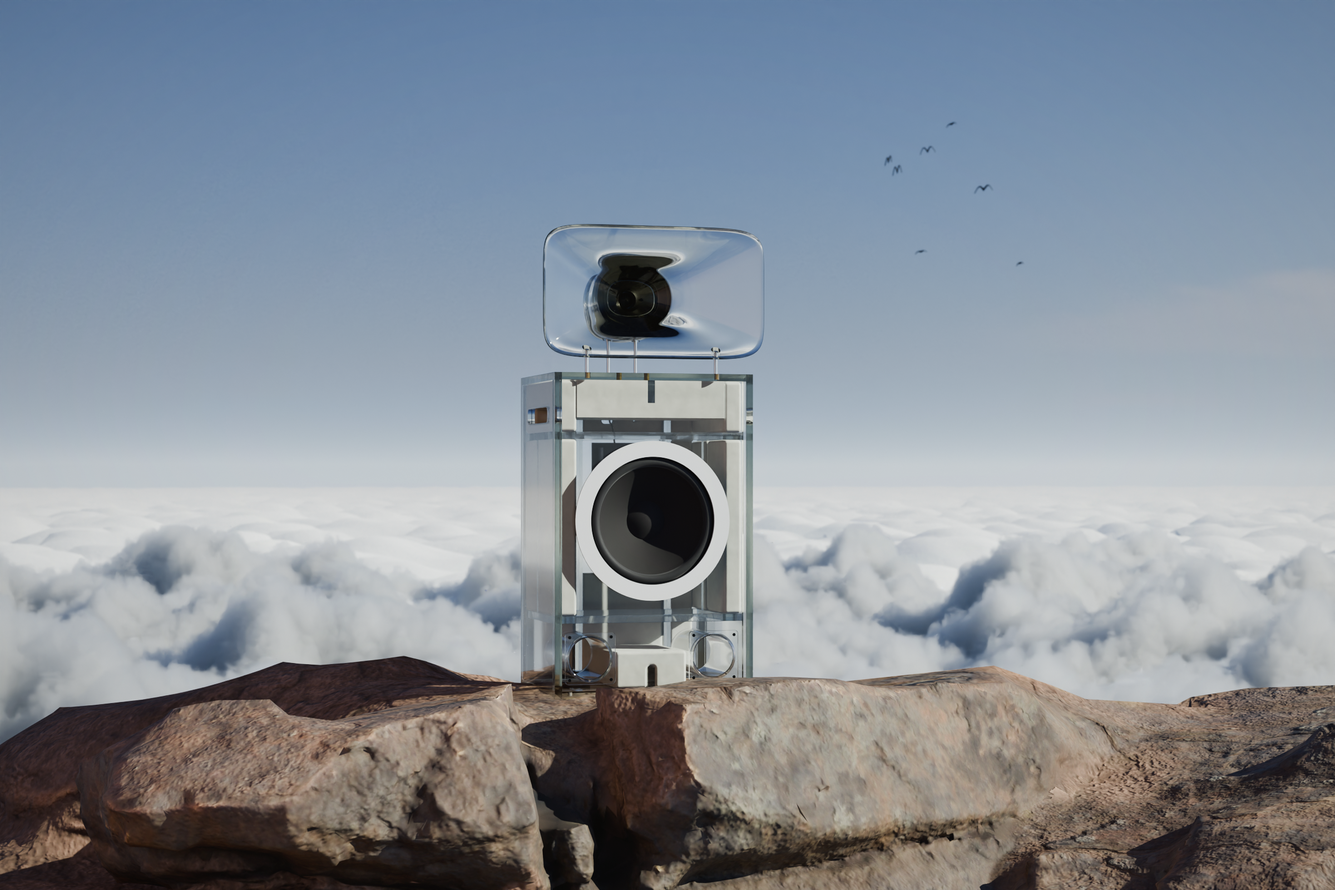
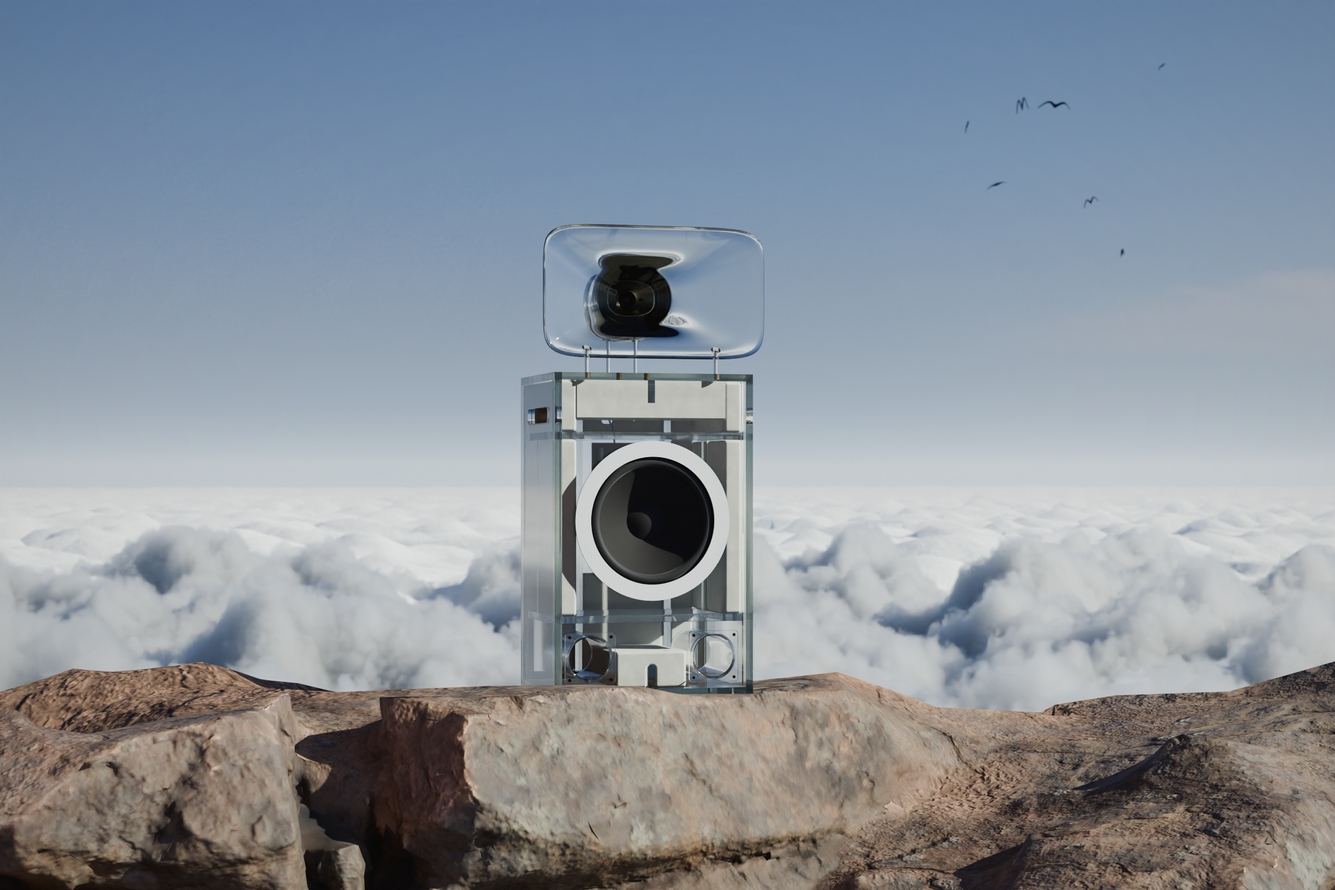
barkhorn element: Fog round 2 landscape (footing on one slab, varied birds, grain on the rock), with round 2's portrait merged; for the record, Fog A stops here
Claude-Session: https://claude.ai/code/session_017BzX8pWDEEeKHXSjptgrXD

Changed region(s): [[0.0, 0.7188, 1.0, 1.0], [0.9062, 0.625, 0.9375, 0.6562]]

diff --git a/spinoffs/barkhorn/elements/fog.md b/spinoffs/barkhorn/elements/fog.md
@@ -259,3 +259,22 @@ What holds it back, in its words and mine:
 Scores, pass by pass: 5.0, 5.5, 5.5, then the concept change, then 5.0, 5.5, 5.5, 5.0; the final scored 6.5. The
 fixes above are concrete, and the critic puts them at 8.2. The next round should start with 1 (the far deck as a
 volume) and 2 (footing).
+
+## Round 2, for the record
+
+The coordinator asked for one more round on the final critic's cheap fixes. The rig is a31e7bc:
+- **Footing:** the speaker on the scan's flattest place (found by ray casts; level within 4.8 cm, off the crack).
+- **Birds:** varied in size and pose.
+- **Rock:** a grain bump (kit_ext `scan`).
+- **Bounce:** down from 0.8 to 0.3.
+- **Far domes:** broken with noise.
+
+**Landscape:** fog.png, 2400 x 1600, 256 samples, 3 h 02 min.
+
+**Portrait:** fog-portrait.png, 1600 x 2000, 256 samples, 79 min, by the helper session (r31-element-fog-portrait-r2 at
+d1002aa, merged here). The helper notes the speaker stands square on the slab with no gap, though the contact shadow
+is faint, and two of the six birds are edge-on dashes.
+
+These replace round 1's frames on this branch; round 1's are in main (0e6c7db, 008c243) and in this branch's history.
+Neither frame got a duel or a critic pass. Fog B won the blind duel against Fog A's round 1, 6.7 to 4.7, and is on the
+site, and the owner has asked for a San Francisco Fog (Fog C, by the Fog B session). So this concept stops here.
